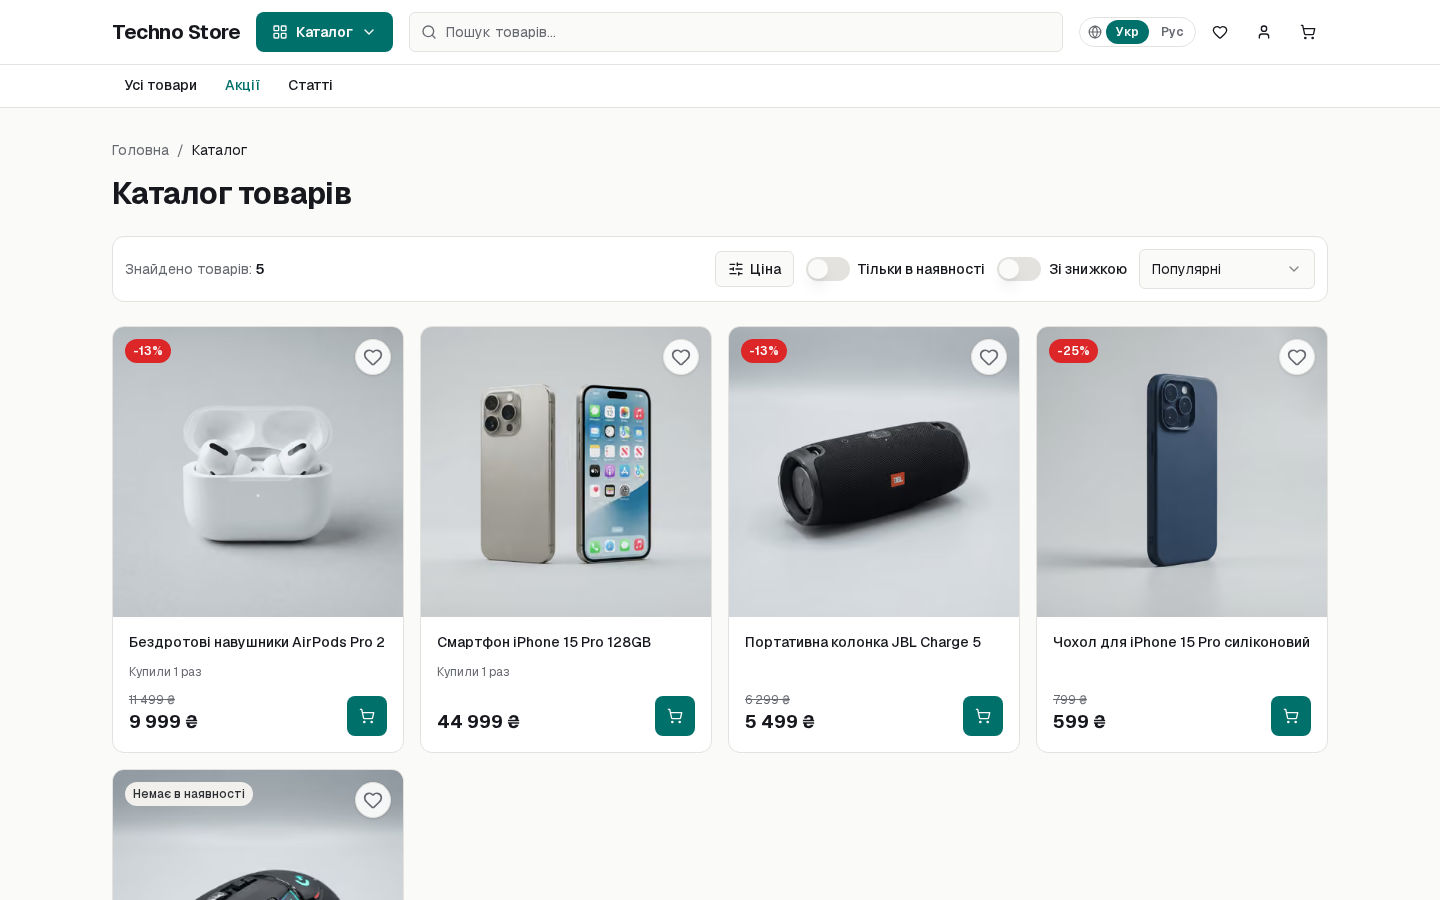
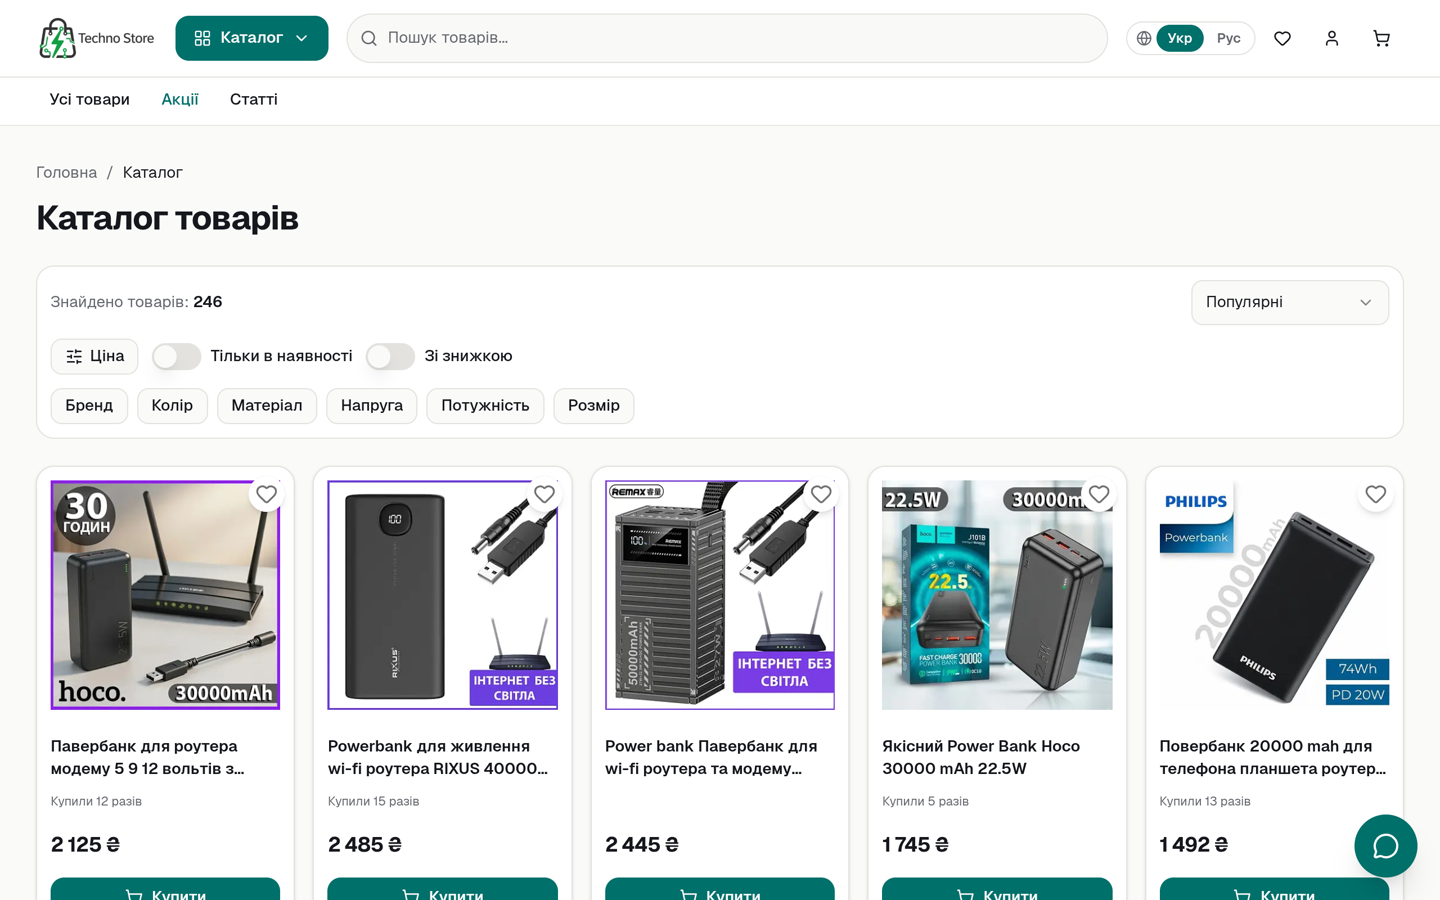
README: refresh screenshots, version 3.4.48

diff --git a/README.md b/README.md
@@ -19,11 +19,11 @@
 > Next.js app: catalog, orders, customers, stock, promos, Nova Poshta delivery, Monobank /
 > WayForPay payments. One-command VPS install, Docker, no SaaS lock-in.
 
-**Version 3.0.0** · Next.js 16 · PostgreSQL · Docker · MIT
+**Version 3.4.48** · Next.js 16 · PostgreSQL · Docker · MIT
 
 **Демо:** https://magazine-test-ten.vercel.app — имя в вкладке берётся из `/admin` → Налаштування (`storeName`), не из кода.
 **Релиз:** https://github.com/vasdko4/universal-crm-ua/releases/latest
-**Образ:** `ghcr.io/vasdko4/universal-crm-ua:3.0.0`
+**Образ:** `ghcr.io/vasdko4/universal-crm-ua:3.4.48`
 
 ```bash
 curl -fsSL https://raw.githubusercontent.com/vasdko4/universal-crm-ua/main/install.sh | bash
@@ -99,7 +99,7 @@ DOMAIN=shop.example.com bash install.sh
 Другая версия образа:
 
 ```bash
-IMAGE=ghcr.io/vasdko4/universal-crm-ua:3.0.0 bash install.sh
+IMAGE=ghcr.io/vasdko4/universal-crm-ua:3.4.48 bash install.sh
 ```
 
 Пропустить подготовку ОС (Docker уже стоит):
